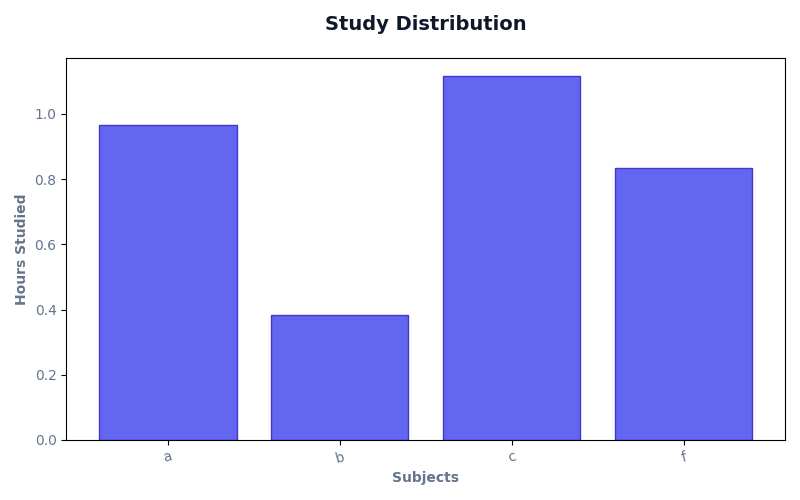
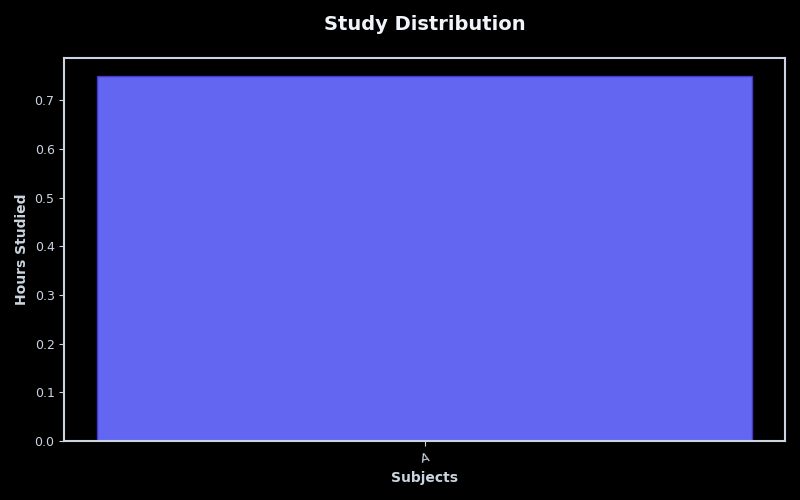
dark mode graph issuse

diff --git a/static/style.css b/static/style.css
@@ -211,37 +211,52 @@ input:focus {
 
 .btn-delete:hover { background: #fecaca; }
 
+/* --- Comprehensive Table Styling --- */
+
 .table-container { 
-    background: var(--card-bg); /* Becomes #0a0a0a in dark mode */
-    border-radius: var(--radius); 
+    background: var(--card-bg); 
+    border-radius: 12px; 
     overflow: hidden; 
     border: 1px solid var(--border-color); 
     margin-top: 1.5rem; 
-    box-shadow: var(--shadow-md);
+    box-shadow: var(--shadow-sm);
 }
 
-table { width: 100%; border-collapse: collapse; }
+table { 
+    width: 100%; 
+    border-collapse: collapse; 
+}
 
 th { 
-    background: var(--bg); /* Becomes pure black in dark mode */
+    background: var(--bg); 
     padding: 1.2rem; 
     text-align: left; 
     color: var(--text-muted); 
+    font-weight: 700;
+    font-size: 0.85rem;
+    text-transform: uppercase;
+    letter-spacing: 0.05em;
+    border-bottom: 2px solid var(--border-color);
 }
 
 td { 
     padding: 1.2rem; 
     border-top: 1px solid var(--border-color); 
-    color: var(--text-main); /* Becomes light gray in dark mode */
+    color: var(--text-main); 
+    font-size: 1rem;
 }
 
-/* Hover effect fix */
+/* Row Hover Logic */
+tbody tr {
+    transition: background-color 0.2s ease;
+}
+
 tbody tr:hover {
-    background-color: var(--primary-light); /* Subtle indigo highlight */
+    background-color: var(--primary-light);
 }
 
 tbody tr:hover td {
-    color: var(--primary); /* Text turns blue on hover */
+    color: var(--primary);
 }
 
 /* --- Navigation Styling --- */
@@ -345,4 +360,14 @@ input:checked + .slider:before {
 /* Highlight the icon if we are on the settings page */
 .settings-link[href="/settings"] i {
     color: var(--primary);
+}
+
+/* Force headers to be visible in all modes */
+.card h2, .card h1, .card h4 {
+    color: var(--text-main) !important;
+}
+
+/* Specifically for the Tracker title on the index page */
+.container h2 {
+    color: var(--text-main);
 }

diff --git a/templates/dashboard.html b/templates/dashboard.html
@@ -81,6 +81,16 @@
                 </div>
             </div>
         </div>
+        
+        <div style="display: flex; justify-content: space-between; align-items: center; margin-bottom: 1.5rem; margin-top: 2rem;">
+            <h2 style="margin: 0;">Study Logs</h2>
+
+            <form action="/clear" method="POST" onsubmit="return confirm('Are you sure you want to delete ALL study logs? This cannot be undone.');">
+                <button type="submit" style="background: #ef4444; color: white; border: none; padding: 0.6rem 1.2rem; border-radius: 8px; font-weight: 700; cursor: pointer; transition: opacity 0.2s;">
+                    <i class="fa-solid fa-trash-can" style="margin-right: 8px;"></i> Delete All Logs
+                </button>
+            </form>
+        </div>
 
         <div class="table-container">
             <table>

diff --git a/logic/graphs.py b/logic/graphs.py
@@ -4,7 +4,8 @@ import matplotlib.pyplot as plt
 import sqlite3
 import os
 
-def generate_subject_graph(theme='light'): # Added theme argument
+def generate_subject_graph(theme='light'):
+    # --- Data Fetching (Keep as is) ---
     conn = sqlite3.connect("database.db")
     cursor = conn.cursor()
     cursor.execute("SELECT subject, SUM(actual_time) FROM study_logs GROUP BY subject")
@@ -17,31 +18,51 @@ def generate_subject_graph(theme='light'): # Added theme argument
     subjects = [row[0] for row in data]
     times = [row[1] / 60 for row in data]
 
-    # --- THEME LOGIC ---
+    # --- HARD RESET MATPLOTLIB ---
+    plt.rcParams.update(plt.rcParamsDefault) # This wipes the dark memory
+    
     if theme == 'dark':
-        text_color = '#f1f5f9'  # Light gray (var--text-main)
-        label_color = '#cbd5e1' # Muted gray (var--text-muted)
+        text_color = '#f1f5f9'
+        label_color = '#cbd5e1'
+        bg_color = '#000000'
         plt.style.use('dark_background')
     else:
-        text_color = '#0f172a'  # Dark blue-black
-        label_color = '#64748b' # Original gray
+        text_color = '#0f172a'  # Solid Dark Blue
+        label_color = '#1e293b' # Very Dark Slate (for visibility)
+        bg_color = '#ffffff'
         plt.style.use('default')
 
-    plt.figure(figsize=(8, 5))
+    fig = plt.figure(figsize=(8, 5))
+    fig.patch.set_facecolor(bg_color)
+    ax = plt.gca()
+    ax.set_facecolor(bg_color)
     
-    # Matching your 3D/OLED style
+    # Draw bars
     plt.bar(subjects, times, color='#6366f1', edgecolor='#4338ca', linewidth=1)
     
-    plt.xlabel('Subjects', fontweight='bold', color=label_color)
-    plt.ylabel('Hours Studied', fontweight='bold', color=label_color)
+    # --- FORCE AXIS VISIBILITY ---
+    # We manually set the spine (axis line) colors to ensure they aren't white
+    for spine in ax.spines.values():
+        spine.set_edgecolor(label_color)
+        spine.set_linewidth(1.5) # Make lines slightly thicker for visibility
+
+    # Force the title and axis labels
+    plt.xlabel('Subjects', fontweight='bold', color=label_color, fontsize=10)
+    plt.ylabel('Hours Studied', fontweight='bold', color=label_color, fontsize=10)
     plt.title('Study Distribution', fontweight='800', fontsize=14, pad=20, color=text_color)
     
-    # Fix the tick colors specifically
+    # Force the tick numbers (the 1.0, 0.8, etc.)
+    ax.tick_params(axis='x', colors=label_color, labelsize=9)
+    ax.tick_params(axis='y', colors=label_color, labelsize=9)
+    
+    # Specifically fix the tick labels which often stay light
     plt.xticks(rotation=15, color=label_color)
     plt.yticks(color=label_color)
     
-    # Make the background of the image transparent so it sits perfectly on the card
     plt.tight_layout()
     graph_path = os.path.join('static', 'study_graph.png')
-    plt.savefig(graph_path, transparent=True) 
-    plt.close()
+    
+    # Save WITHOUT transparency for testing to see if the colors stick
+    # Then flip to True once you confirm visibility
+    plt.savefig(graph_path, transparent=False, facecolor=fig.get_facecolor()) 
+    plt.close(fig)
